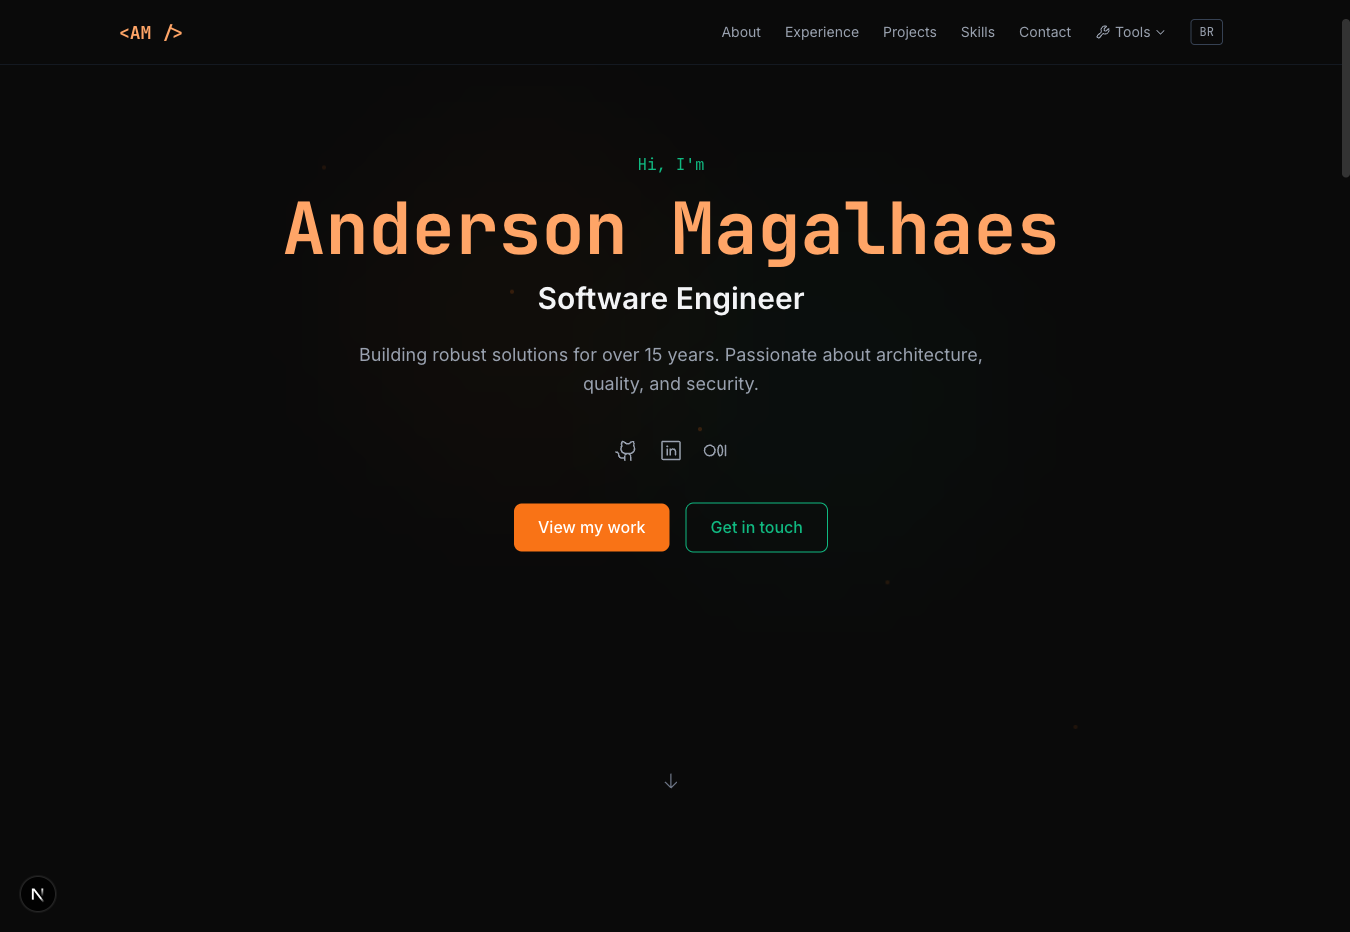
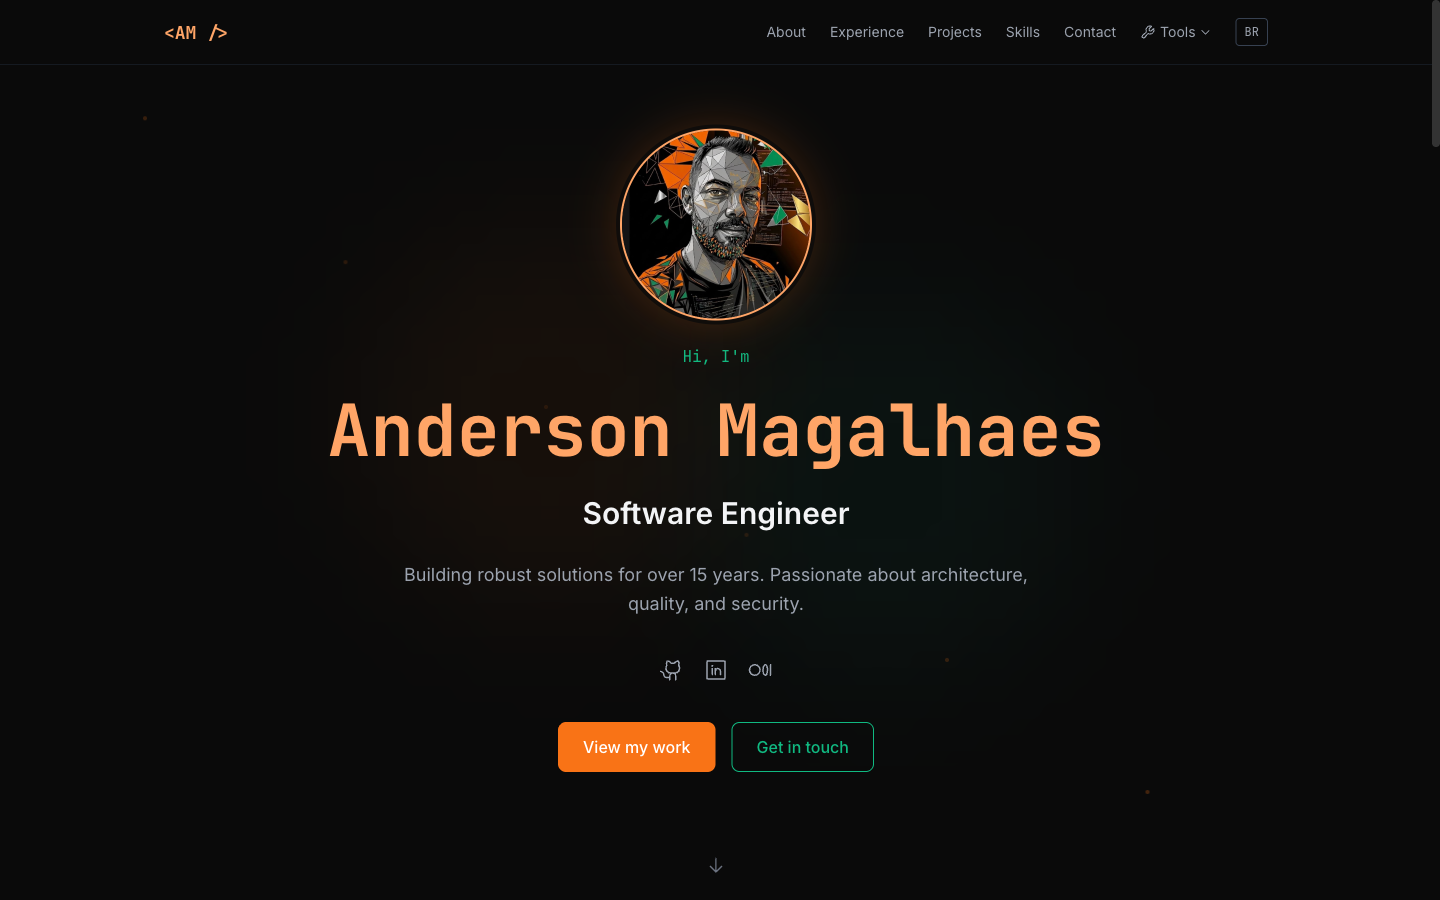
feat: enhance HeroSection with scroll-based image effects and new photo

diff --git a/src/components/sections/HeroSection.tsx b/src/components/sections/HeroSection.tsx
@@ -1,6 +1,8 @@
 "use client";
 
-import { motion } from "framer-motion";
+import { useRef } from "react";
+import Image from "next/image";
+import { motion, useScroll, useTransform } from "framer-motion";
 import { useTranslations } from "next-intl";
 import {
   GithubLogoIcon,
@@ -31,13 +33,25 @@ const socialLinks = [
 
 export default function HeroSection() {
   const t = useTranslations("hero");
+  const sectionRef = useRef<HTMLElement>(null);
+
+  // Fade and shrink the portrait as the section scrolls out of view.
+  // `start start` = top of section aligned with top of viewport,
+  // `end start`   = bottom of section crosses top of viewport.
+  const { scrollYProgress } = useScroll({
+    target: sectionRef,
+    offset: ["start start", "end start"],
+  });
+  const photoOpacity = useTransform(scrollYProgress, [0, 0.55], [1, 0]);
+  const photoScale = useTransform(scrollYProgress, [0, 0.55], [1, 0.85]);
+  const photoY = useTransform(scrollYProgress, [0, 0.55], [0, -24]);
 
   const scrollTo = (id: string) => {
     document.getElementById(id)?.scrollIntoView({ behavior: "smooth" });
   };
 
   return (
-    <section id="hero" className={styles.section}>
+    <section ref={sectionRef} id="hero" className={styles.section}>
       <div className={styles.bg}>
         <div className={`${styles.blob} ${styles.blobOrange}`} />
         <div className={`${styles.blob} ${styles.blobEmerald}`} />
@@ -65,9 +79,26 @@ export default function HeroSection() {
 
       <div className={`container ${styles.content}`}>
         <motion.div
+          initial={{ opacity: 0, scale: 0.9 }}
+          animate={{ opacity: 1, scale: 1 }}
+          transition={{ duration: 0.6 }}
+          style={{ opacity: photoOpacity, scale: photoScale, y: photoY }}
+          className={styles.photoWrap}
+        >
+          <Image
+            src="/photo.png"
+            alt="Anderson Magalhaes"
+            width={192}
+            height={192}
+            priority
+            className={styles.photoImage}
+          />
+        </motion.div>
+
+        <motion.div
           initial={{ opacity: 0, y: 30 }}
           animate={{ opacity: 1, y: 0 }}
-          transition={{ duration: 0.6 }}
+          transition={{ duration: 0.6, delay: 0.1 }}
         >
           <p className={styles.greeting}>{t("greeting")}</p>
         </motion.div>

diff --git a/src/components/sections/HeroSection.module.css b/src/components/sections/HeroSection.module.css
@@ -47,6 +47,42 @@
   text-align: center;
 }
 
+.photoWrap {
+  width: 8rem;
+  height: 8rem;
+  margin: 0 auto var(--space-6);
+  border-radius: var(--radius-full);
+  overflow: hidden;
+  border: 2px solid var(--color-brand-orange-light);
+  box-shadow:
+    0 0 0 4px rgba(10, 10, 10, 0.8),
+    0 0 48px rgba(249, 115, 22, 0.25);
+  /* Make sure framer-motion's `scale` transforms from the photo center. */
+  transform-origin: center center;
+  will-change: transform, opacity;
+}
+
+@media (min-width: 640px) {
+  .photoWrap {
+    width: 10rem;
+    height: 10rem;
+  }
+}
+
+@media (min-width: 1024px) {
+  .photoWrap {
+    width: 12rem;
+    height: 12rem;
+  }
+}
+
+.photoImage {
+  width: 100%;
+  height: 100%;
+  object-fit: cover;
+  display: block;
+}
+
 .greeting {
   color: var(--color-brand-emerald);
   font-family: var(--font-mono);
